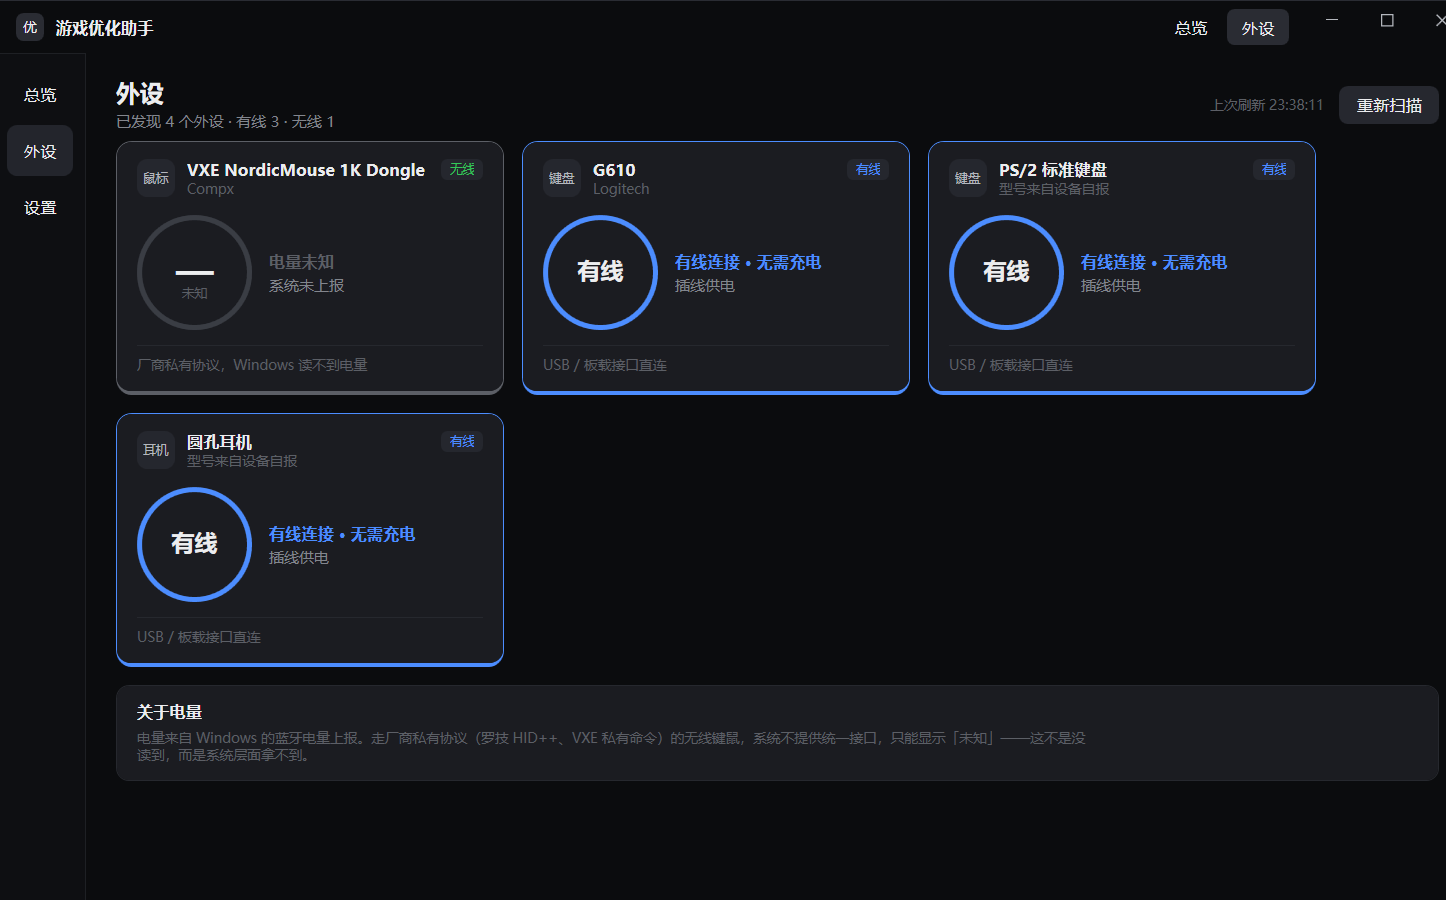
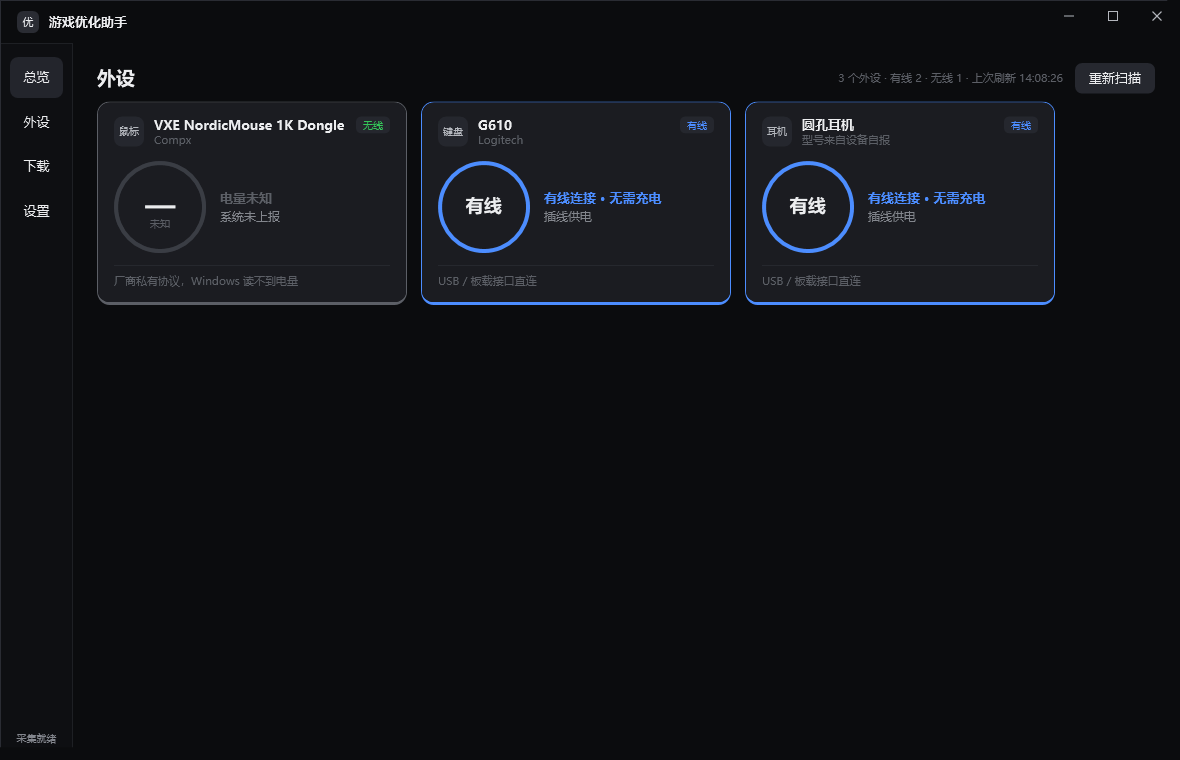
docs: 四张截图全部重拍，修好离屏渲染工具
截图（1180x760，管理员身份渲染，与真实使用状态一致）：
- home 总览：四个环形仪表 + 游戏模式 + 已装游戏显存判定
- peripherals 外设：鼠标/键盘/耳机三张卡片
- download 下载：空状态（不再带上本机真实下载记录）
- settings 设置：九节使用说明书
CPU 详情页未收录：离屏渲染下内容高度被面板截断，截图会显得功能不全。

渲染工具修复（OffscreenRenderer）：
- 内容摘出窗口后补回 DataContext，此前所有页面叠在一张图上渲染
- PumpDispatcher 改用有上限的帧循环，不再等 ContextDispatcher 空闲（等不到就死等）
- 加页面过滤参数 --render <dir> [home,peripherals,...]，并支持按页指定画布高度
- MainViewModel 增加 DownloadStore 注入参数（默认不变），渲染用临时任务表

README：截图区改为四页折叠展示、用例数 584、补两条踩坑说明与一条设计原则。

diff --git a/src/GameOptimizer.App/OffscreenRenderer.cs b/src/GameOptimizer.App/OffscreenRenderer.cs
@@ -18,67 +18,112 @@ using System.Windows.Media.Imaging;
 /// 正确做法是把窗口内容填进一个**已附加到可视化树**的 <see cref="Border"/>，
 /// 再渲染那个 Border。
 ///
-/// 用法：<c>GameOptimizer.App.dll --render &lt;输出目录&gt;</c>
+/// 用法：<c>GameOptimizer.App.dll --render &lt;输出目录&gt; [页面名,...]</c>
+/// 页面名可选 home / peripherals / download / settings / cpu，缺省渲染全部。
 /// </summary>
 internal static class OffscreenRenderer
 {
     private const int Width = 1180;
     private const int Height = 760;
 
-    public static string RenderAll(string outputDirectory)
+    /// <summary>画布上限：内容再高也不再撑（再高就该滚动而不是截一张巨图）。</summary>
+    private const int MaxHeight = 1400;
+
+    /// <summary>内容比默认窗口高的页面，单独指定画布高度。</summary>
+    private static readonly Dictionary<string, int> PageHeights = new()
+    {
+        ["cpu"] = 1250,
+    };
+
+    /// <summary>页面名 → 导航序号（cpu 详情页不走导航，由 OpenCpuDetailCommand 打开）。</summary>
+    private static readonly (string Name, int NavIndex)[] Pages =
+    [
+        ("home", 0),
+        ("peripherals", 1),
+        ("download", 2),
+        ("settings", 3),
+        ("cpu", 0),
+    ];
+
+    public static string RenderAll(string outputDirectory, string? only = null)
     {
         Directory.CreateDirectory(outputDirectory);
+        _tracePath = Path.Combine(outputDirectory, "_render.log");
+        Trace("render all start, only=" + (only ?? "(all)"));
+
+        var wanted = string.IsNullOrWhiteSpace(only)
+            ? null
+            : only.Split(',', StringSplitOptions.RemoveEmptyEntries | StringSplitOptions.TrimEntries)
+                  .ToHashSet(StringComparer.OrdinalIgnoreCase);
 
         var written = new List<string>();
 
         // 每一页单独一个窗口实例：页面的初始状态（空状态 / 列表）与导航高亮才可信
-        foreach (var (name, navIndex) in new[]
-                 {
-                     ("download", 2),
-                     ("home", 0),
-                     ("peripherals", 1),
-                     ("settings", 3),
-                 })
+        foreach (var (name, navIndex) in Pages)
         {
+            if (wanted is not null && !wanted.Contains(name)) continue;
+
             var path = Path.Combine(outputDirectory, $"page-{name}.png");
-            Render(navIndex, path);
+            Render(name, navIndex, path);
             written.Add(path);
         }
 
         return string.Join(Environment.NewLine, written);
     }
 
-    private static void Render(int navIndex, string outputPath)
+    private static void Render(string name, int navIndex, string outputPath)
     {
+        Trace("start " + name);
+
         var window = new GameOptimizer.App.Views.MainWindow
         {
             DataContext = CreateViewModel(),
         };
+        Trace("vm created");
 
         if (window.DataContext is GameOptimizer.App.ViewModels.MainViewModel vm)
+        {
             vm.NavigateTo(navIndex);
+
+            // CPU 详情页是总览页上的浮层，靠命令打开，不走导航
+            if (name == "cpu") vm.OpenCpuDetailCommand.Execute(null);
+        }
+        Trace("navigated");
 
         // 取出窗口内容，放到一个临时宿主里排版并渲染
         var content = (UIElement)window.Content;
         window.Content = null;
 
+        // 画布高度：默认与窗口一致；个别页面内容比窗口高，单独给更高的画布，
+        // 否则截图里会把后半截裁掉（CPU 详情页的逐核条形图就是这种）。
+        //
+        // 不能靠 content.DesiredSize 自动撑：页面主体在 ScrollViewer 里，
+        // 它报的是视口高度而不是内容高度，永远是 717。
+        var canvasHeight = PageHeights.TryGetValue(name, out var overrideHeight)
+            ? Math.Clamp(overrideHeight, Height, MaxHeight)
+            : Height;
+
         var host = new Border
         {
             Width = Width,
-            Height = Height,
+            Height = canvasHeight,
             Background = new SolidColorBrush(Color.FromRgb(0x0B, 0x0C, 0x0E)),
             Child = content,
+
+            // 关键：内容从窗口上摘下来后就不再继承窗口的 DataContext，
+            // 页面可见性等绑定会全部失效（结果是所有页叠在一起渲染）。
+            DataContext = window.DataContext,
         };
 
-        host.Measure(new Size(Width, Height));
-        host.Arrange(new Rect(0, 0, Width, Height));
+        host.Measure(new Size(Width, canvasHeight));
+        host.Arrange(new Rect(0, 0, Width, canvasHeight));
         host.UpdateLayout();
 
         // 让布局与绑定跑完（数据模板展开、每秒采集的首次刷新都在这一轮）
         PumpDispatcher();
 
-        host.Measure(new Size(Width, Height));
-        host.Arrange(new Rect(0, 0, Width, Height));
+        host.Measure(new Size(Width, canvasHeight));
+        host.Arrange(new Rect(0, 0, Width, canvasHeight));
         host.UpdateLayout();
         PumpDispatcher();
 
@@ -86,7 +131,7 @@ internal static class OffscreenRenderer
         var shell = new Window
         {
             Width = Width,
-            Height = Height,
+            Height = canvasHeight,
             WindowStyle = WindowStyle.None,
             ShowInTaskbar = false,
             Left = -20_000,
@@ -96,43 +141,100 @@ internal static class OffscreenRenderer
         };
 
         shell.Show();
+        Trace("shown");
         PumpDispatcher();
         host.UpdateLayout();
         PumpDispatcher();
+        Trace("pumped");
 
-        var bitmap = new RenderTargetBitmap(Width, Height, 96, 96, PixelFormats.Pbgra32);
+        var bitmap = new RenderTargetBitmap(Width, canvasHeight, 96, 96, PixelFormats.Pbgra32);
+
+        // 先铺一层窗口底色：内容没填满画布时剩下的区域是透明的，
+        // 直接存 PNG 会在查看器里显示成白条。
+        var backdrop = new DrawingVisual();
+        using (var dc = backdrop.RenderOpen())
+        {
+            dc.DrawRectangle(
+                new SolidColorBrush(Color.FromRgb(0x0B, 0x0C, 0x0E)), null, new Rect(0, 0, Width, canvasHeight));
+        }
+
+        bitmap.Render(backdrop);
         bitmap.Render(host);
+        Trace("rendered");
 
         var encoder = new PngBitmapEncoder();
         encoder.Frames.Add(BitmapFrame.Create(bitmap));
 
         using (var stream = File.Create(outputPath)) encoder.Save(stream);
+        Trace("saved " + Path.GetFileName(outputPath));
 
         shell.Close();
     }
 
-    /// <summary>把 UI 队列跑空：绑定、布局、渲染优先级都处理一遍。</summary>
-    private static void PumpDispatcher()
+    /// <summary>
+    /// 把 UI 队列跑一段有限时间，让绑定、布局、渲染都处理一遍。
+    ///
+    /// 刻意不用 <c>Dispatcher.Invoke(..., ContextIdle)</c> 那种「等队列跑空」的写法：
+    /// 只要有页面挂着一个持续自激的 DispatcherTimer，队列永远回不到 ContextIdle，
+    /// 这里就会无限等下去（曾经因此让 --render 直接卡死）。改成推一个有上限的帧循环。
+    /// </summary>
+    private static void PumpDispatcher(int milliseconds = 400)
     {
-        for (var i = 0; i < 6; i++)
+        var frame = new System.Windows.Threading.DispatcherFrame();
+        var timer = new System.Windows.Threading.DispatcherTimer(
+            System.Windows.Threading.DispatcherPriority.Send)
         {
-            Application.Current?.Dispatcher.Invoke(
-                () => { }, System.Windows.Threading.DispatcherPriority.ContextIdle);
-            Thread.Sleep(60);
+            Interval = TimeSpan.FromMilliseconds(milliseconds),
+        };
+
+        timer.Tick += (_, _) =>
+        {
+            timer.Stop();
+            frame.Continue = false;
+        };
+
+        timer.Start();
+        System.Windows.Threading.Dispatcher.PushFrame(frame);
+    }
+
+    /// <summary>渲染过程没有控制台（WinExe 的 stdout 是空的），进度只能落文件。</summary>
+    private static string _tracePath = "";
+
+    private static void Trace(string message)
+    {
+        if (_tracePath.Length == 0) return;
+
+        try
+        {
+            File.AppendAllText(
+                _tracePath,
+                $"{DateTime.Now:HH:mm:ss.fff}  {message}{Environment.NewLine}");
+        }
+        catch
+        {
+            // 诊断日志写不进去不影响主流程
         }
     }
 
     private static object CreateViewModel()
     {
+        Trace("sampler new");
         var sampler = new GameOptimizer.Core.Collection.PdhSampler();
+        Trace("sampler init");
         var ready = sampler.Initialize();
+        Trace("sampler ready=" + ready);
         if (ready) sampler.Warmup();
+        Trace("sampler warmed");
 
         return new GameOptimizer.App.ViewModels.MainViewModel(
             sampler,
             ready,
             new GameOptimizer.Core.GameMode.GameModeController(
                 new GameOptimizer.Core.GameMode.GameModeStateStore(
-                    Path.Combine(Path.GetTempPath(), "go-render-state.json"))));
+                    Path.Combine(Path.GetTempPath(), "go-render-state.json"))),
+
+            // 每次渲染都用全新的空任务表：截图不该带上某个人的真实下载记录
+            new GameOptimizer.Core.Download.DownloadStore(
+                Path.Combine(Path.GetTempPath(), "go-render-downloads.json")));
     }
 }

diff --git a/src/GameOptimizer.App/ViewModels/MainViewModel.cs b/src/GameOptimizer.App/ViewModels/MainViewModel.cs
@@ -26,7 +26,15 @@ public sealed class MainViewModel : INotifyPropertyChanged
     private readonly GameVramAssessor _assessor = new();
     private IReadOnlyList<GameEntry> _games = [];
 
-    public MainViewModel(PdhSampler sampler, bool samplerReady, GameModeController gameMode)
+    /// <param name="downloadStore">
+    /// 下载任务存储位置。默认用 %LocalAppData% 下的真实记录；
+    /// 离屏渲染截图时传一个临时文件，避免把使用者本机的下载任务拍进图片。
+    /// </param>
+    public MainViewModel(
+        PdhSampler sampler,
+        bool samplerReady,
+        GameModeController gameMode,
+        DownloadStore? downloadStore = null)
     {
         _sampler = sampler;
         _gameMode = gameMode;
@@ -35,7 +43,8 @@ public sealed class MainViewModel : INotifyPropertyChanged
 
         // 下载器（v2.2.0）：服务本身在 Core，这里只建一个实例并交给下载页的 ViewModel。
         // 下载与采集互不影响：上传/下载不动 PDH 计数器，共用事件循环也不会互相拖慢。
-        Downloads = new DownloadViewModel(new DownloadService(), Dispatcher.CurrentDispatcher)
+        Downloads = new DownloadViewModel(
+            new DownloadService(store: downloadStore), Dispatcher.CurrentDispatcher)
         {
             DirectoryPicker = DirectoryPicker.AskForFolder,
             OpenFolderAction = item => DirectoryPicker.OpenInExplorer(item.FilePath),

diff --git a/src/GameOptimizer.App/App.xaml.cs b/src/GameOptimizer.App/App.xaml.cs
@@ -28,7 +28,9 @@ public partial class App : Application
             ShutdownMode = ShutdownMode.OnExplicitShutdown;
             try
             {
-                var output = OffscreenRenderer.RenderAll(e.Args[1]);
+                var output = OffscreenRenderer.RenderAll(
+                    e.Args[1],
+                    e.Args.Length >= 3 ? e.Args[2] : null);
                 Console.WriteLine(output);
             }
             catch (Exception ex)
